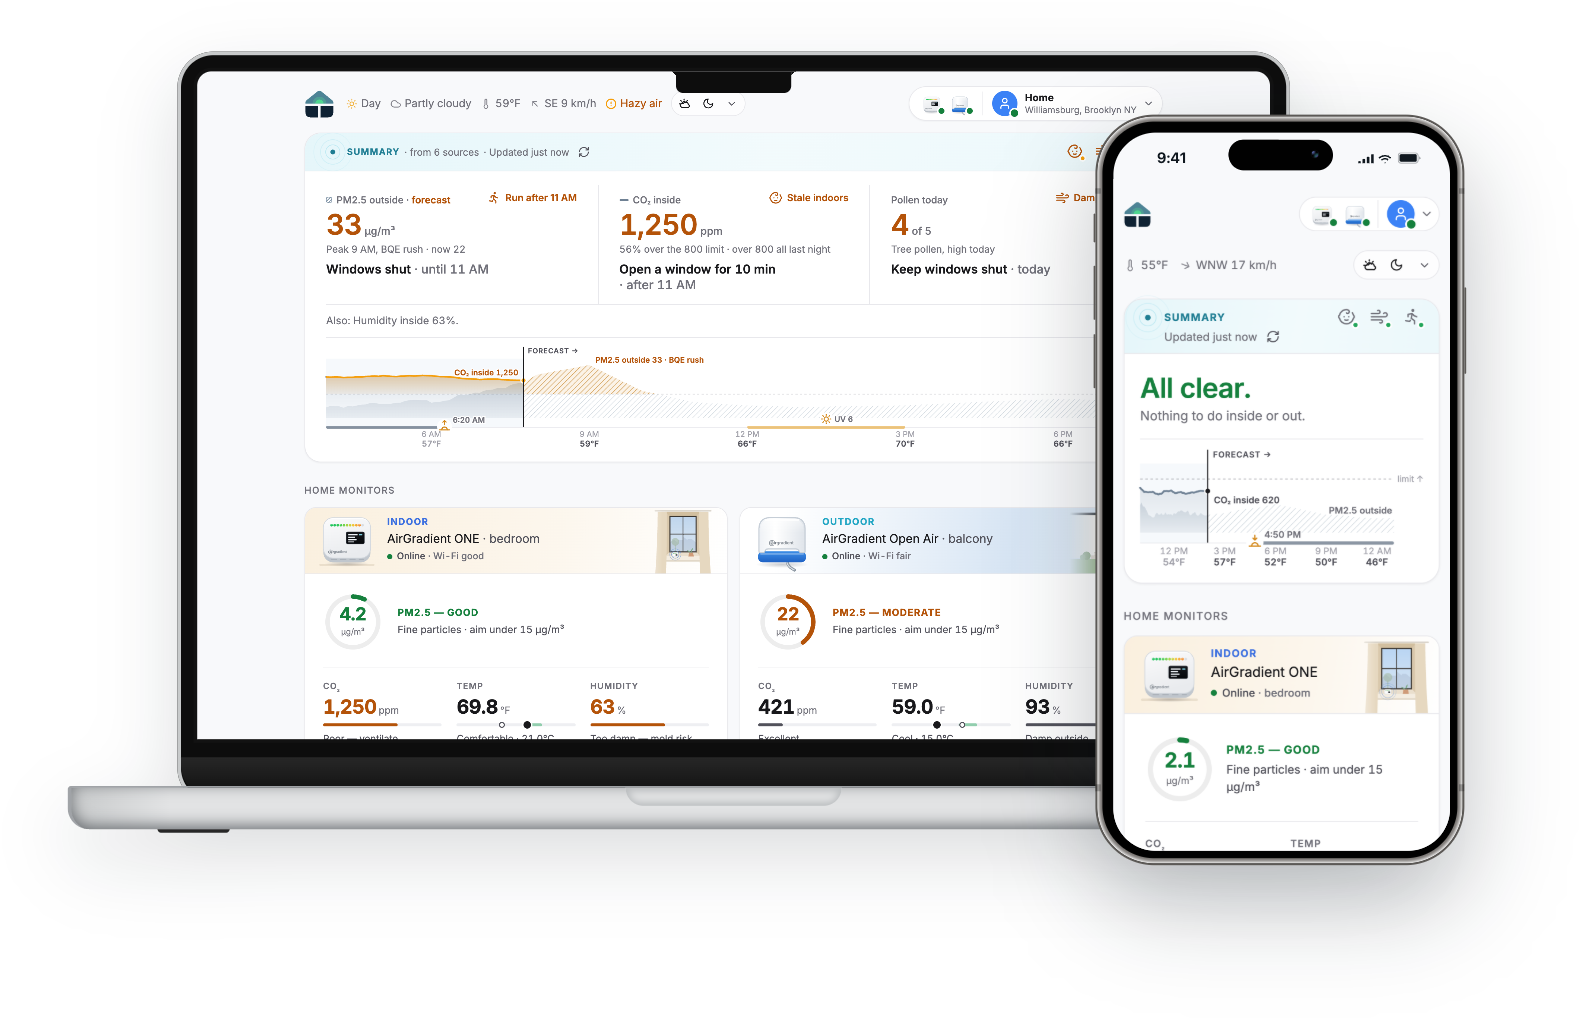
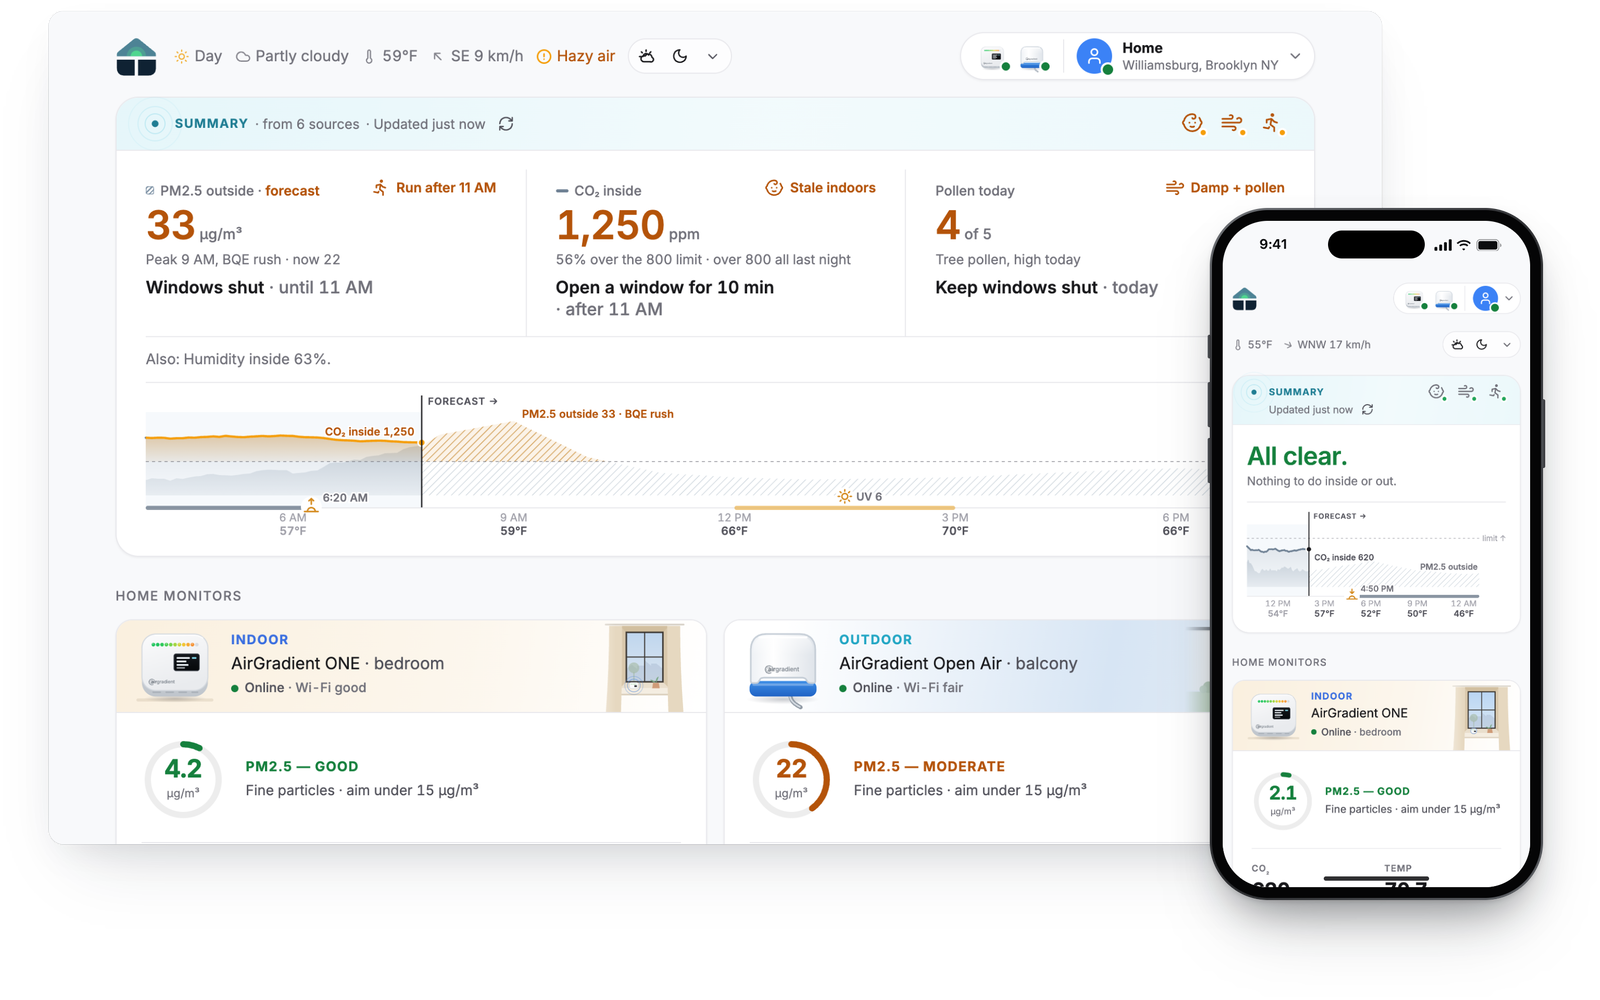
New hero: the page in a rounded panel with the phone, no laptop

Changed region(s): [[0.031, 0.031, 0.9918, 0.93], [0.4649, 0.403, 0.5889, 0.434], [0.217, 0.589, 0.3099, 0.62]]

diff --git a/scripts/hero.html b/scripts/hero.html
@@ -1,71 +1,107 @@
 <!doctype html>
-<!-- The README's hero image: a MacBook Pro with the desktop's first screen (Morning rush), an iPhone 14 Pro in front with the phone's (All clear).
-     scripts/screenshot.sh opens it with ?theme=light|dark&desk=<png>&phone=<png>&bg=<hex> and shoots it on a transparent background.
-     Device frames: Devices.css (MIT, github.com/picturepan2/devices.css), vendored in scripts/vendor. -->
+<!-- The README's hero image: the desktop page's first screen (Morning rush) in a rounded panel with a soft shadow, no window
+     chrome, and a current iPhone over its lower right corner with the phone's first screen (All clear).
+     scripts/screenshot.sh opens it with ?theme=light|dark&desk=<png>&phone=<png>&bg=<hex>[&look=cropped] and shoots it on a
+     transparent background. look=cropped: lighter shadows, for the hero on a white background, cropped tight. Standalone: nothing fetched beyond the two captures. -->
 <html lang="en">
 <head>
 <meta charset="utf-8">
 <title>Hero</title>
-<link rel="stylesheet" href="vendor/devices.min.css">
 <style>
   html, body { margin: 0; background: transparent; }
-  :root { --ink: #10181f; }
-  :root.dark { --ink: #f2f5f8; }
-  /* 72 px of room on every side, more than any shadow reaches, so every shadow fades to nothing inside the stage;
-     screenshot.sh then trims to the last non-transparent pixel */
-  .stage { position: relative; width: 920px; height: 640px; }
-  /* the laptop behind, at its native Devices.css size (screen 600 × 375, the desktop's 16:10) */
-  .laptop { position: absolute; left: 72px; top: 72px; filter: drop-shadow(0 16px 20px rgba(10, 20, 30, .14)); }
-  .laptop .device-screen { object-position: top left; }
-  /* the phone in front, over the laptop's lower right, at the same zoom as the laptop's screen
-     (390 px of page in 187 px, 1440 in 600): the wrapper places it, zoom sizes it and keeps it sharp */
-  .phone-at { position: absolute; z-index: 2; left: 643px; top: 107px; width: 205.44px; height: 416.64px; filter: drop-shadow(0 22px 26px rgba(10, 20, 30, .26)); }
-  .phone { zoom: .48; }
-  .phone .device-screen { overflow: hidden; background: var(--bg, #f4f6f8); }
-  .phone .device-screen img { width: 390px; height: auto; display: block; }
-  /* iOS status bar, so the page starts below the Dynamic Island as it does on a real phone */
-  .status { height: 54px; display: flex !important; align-items: center; justify-content: space-between; padding: 6px 34px 0 50px;
-    font: 600 17px/1 -apple-system, "SF Pro Text", system-ui, sans-serif; color: var(--ink); letter-spacing: -.01em; }
-  .status .icons { display: flex !important; gap: 6px; align-items: center; }
+  :root {
+    --ink: #0b0c0e;                  /* the phone's status bar and home indicator */
+    --ring: rgba(16, 24, 40, .09);   /* the hairline around the panel */
+    --sh1: rgba(16, 24, 40, .10);    /* the panel's close shadow */
+    --sh2: rgba(16, 24, 40, .16);    /* the panel's far shadow */
+    --ph0: rgba(0, 0, 0, .10);       /* the phone's contact shadow, close and far */
+    --ph1: rgba(10, 14, 20, .30);
+    --ph2: rgba(10, 14, 20, .30);
+  }
+  :root.dark {
+    --ink: #f5f6f8;
+    --ring: rgba(255, 255, 255, .11);
+    --sh1: rgba(0, 0, 0, .30);
+    --sh2: rgba(0, 0, 0, .40);
+    --ph0: rgba(0, 0, 0, .30);
+    --ph1: rgba(0, 0, 0, .50);
+    --ph2: rgba(0, 0, 0, .50);
+  }
+  /* the cropped hero sits on white with about 30 px below it: shadows half as dark and short enough to fade out inside that */
+  :root.cropped .win { box-shadow: 0 0 0 1px var(--ring), 0 6px 16px -6px rgba(16, 24, 40, .05), 0 14px 24px -10px rgba(16, 24, 40, .07); }
+  :root.cropped .phone { box-shadow: 0 1px 3px rgba(0, 0, 0, .06), 0 8px 16px -4px rgba(10, 14, 20, .14), 0 16px 24px -10px rgba(10, 14, 20, .10); }
+  .stage { position: relative; }
+  /* the panel: the page's own first screen, rounded, with 100 px of room on the top and left (more than its shadow reaches) */
+  .win { position: absolute; left: 100px; top: 100px; width: 1240px; border-radius: 14px; overflow: hidden;
+    box-shadow: 0 0 0 1px var(--ring), 0 14px 32px -12px var(--sh1), 0 36px 64px -28px var(--sh2); }
+  .win img { display: block; width: 100%; height: auto; }
+
+  /* the phone: an iPhone 15 Pro-class body, the page at 0.7277 of its 393 × 852 pt screen (286 × 620) */
+  .phone { position: absolute; width: 310px; height: 644px; border-radius: 54px; padding: 2px; box-sizing: border-box;
+    background: linear-gradient(150deg, #74777c 0%, #2b2c2f 22%, #3d3f43 50%, #26272a 78%, #5d6065 100%);   /* the titanium edge */
+    box-shadow: 0 2px 4px var(--ph0), 0 20px 36px -12px var(--ph1), 0 40px 64px -28px var(--ph2); }
+  .bezel { width: 100%; height: 100%; border-radius: 52px; background: #050506; padding: 10px; box-sizing: border-box; }
+  .screen { position: relative; width: 286px; height: 620px; border-radius: 42px; overflow: hidden; background: var(--bg, #f8f9fb); }
+  .screen img { display: block; width: 286px; height: auto; }
+  .island { position: absolute; left: 50%; top: 9px; transform: translateX(-50%); width: 90px; height: 26px; border-radius: 13px; background: #000; z-index: 2; }
+  .home-ind { position: absolute; left: 50%; bottom: 6px; transform: translateX(-50%); width: 98px; height: 4px; border-radius: 2px; background: var(--ink); opacity: .85; z-index: 2; }
+  /* iOS status bar (59 pt at this scale), so the page starts below the Dynamic Island as it does on a real phone */
+  .status { height: 43px; display: flex; align-items: center; justify-content: space-between; padding: 2px 26px 0 34px; box-sizing: border-box;
+    font: 600 12.5px/1 -apple-system, "SF Pro Text", system-ui, sans-serif; color: var(--ink); letter-spacing: -.01em; }
+  .status .icons { display: flex; gap: 4.5px; align-items: center; }
   .status svg { display: block; fill: currentColor; }
+  /* side buttons: action, volume up and down on the left, power on the right; barely out of the edge */
+  .btn { position: absolute; width: 3px; border-radius: 2px; background: linear-gradient(90deg, #55585d, #2d2e31); }
+  .btn.l { left: -2px; } .btn.r { right: -2px; }
 </style>
 </head>
 <body>
-<div class="stage">
-  <div class="device device-macbook-pro laptop">
-    <div class="device-frame"><img class="device-screen" id="desk" alt=""></div>
-    <div class="device-stripe"></div>
-    <div class="device-header"></div>
-    <div class="device-sensors"></div>
-    <div class="device-btns"></div>
-    <div class="device-power"></div>
+<div class="stage" id="stage">
+  <div class="win" id="win"><img id="desk" alt=""></div>
+  <div class="phone" id="phone-body">
+    <div class="btn l" style="top:118px;height:22px"></div>
+    <div class="btn l" style="top:162px;height:42px"></div>
+    <div class="btn l" style="top:214px;height:42px"></div>
+    <div class="btn r" style="top:178px;height:64px"></div>
+    <div class="bezel"><div class="screen">
+      <div class="island"></div>
+      <div class="status"><span>9:41</span><span class="icons">
+        <svg width="16" height="11" viewBox="0 0 18 12" aria-hidden="true"><rect x="0" y="8" width="3" height="4" rx="1"/><rect x="5" y="5.5" width="3" height="6.5" rx="1"/><rect x="10" y="3" width="3" height="9" rx="1"/><rect x="15" y="0" width="3" height="12" rx="1"/></svg>
+        <svg width="14.5" height="11" viewBox="0 0 16 12" aria-hidden="true"><path d="M8 2.6c2.3 0 4.4.9 6 2.4l1.2-1.2A10.2 10.2 0 0 0 8 .9C5.2.9 2.7 2 .8 3.8L2 5c1.6-1.5 3.7-2.4 6-2.4Zm0 3.5c1.3 0 2.5.5 3.5 1.3l1.2-1.2A6.7 6.7 0 0 0 8 4.4c-1.8 0-3.4.7-4.7 1.8l1.2 1.2c1-.8 2.2-1.3 3.5-1.3Zm0 3.4c-.6 0-1.1.2-1.5.6L8 11.6l1.5-1.5c-.4-.4-.9-.6-1.5-.6Z"/></svg>
+        <svg width="24" height="11.5" viewBox="0 0 27 13" aria-hidden="true"><rect x=".5" y=".5" width="23" height="12" rx="3.5" fill="none" stroke="currentColor" stroke-opacity=".4"/><rect x="2" y="2" width="20" height="9" rx="2"/><path d="M25 4.5v4c.8-.3 1.3-1.1 1.3-2s-.5-1.7-1.3-2Z" fill-opacity=".45"/></svg>
+      </span></div>
+      <img id="phone" alt="">
+      <div class="home-ind"></div>
+    </div></div>
   </div>
-  <div class="phone-at"><div class="device device-iphone-14-pro device-black phone">
-    <div class="device-frame">
-      <div class="device-screen">
-        <div class="status"><span>9:41</span><span class="icons">
-          <svg width="18" height="12" viewBox="0 0 18 12" aria-hidden="true"><rect x="0" y="8" width="3" height="4" rx="1"/><rect x="5" y="5.5" width="3" height="6.5" rx="1"/><rect x="10" y="3" width="3" height="9" rx="1"/><rect x="15" y="0" width="3" height="12" rx="1"/></svg>
-          <svg width="16" height="12" viewBox="0 0 16 12" aria-hidden="true"><path d="M8 2.6c2.3 0 4.4.9 6 2.4l1.2-1.2A10.2 10.2 0 0 0 8 .9C5.2.9 2.7 2 .8 3.8L2 5c1.6-1.5 3.7-2.4 6-2.4Zm0 3.5c1.3 0 2.5.5 3.5 1.3l1.2-1.2A6.7 6.7 0 0 0 8 4.4c-1.8 0-3.4.7-4.7 1.8l1.2 1.2c1-.8 2.2-1.3 3.5-1.3Zm0 3.4c-.6 0-1.1.2-1.5.6L8 11.6l1.5-1.5c-.4-.4-.9-.6-1.5-.6Z"/></svg>
-          <svg width="27" height="13" viewBox="0 0 27 13" aria-hidden="true"><rect x=".5" y=".5" width="23" height="12" rx="3.5" fill="none" stroke="currentColor" stroke-opacity=".4"/><rect x="2" y="2" width="20" height="9" rx="2"/><path d="M25 4.5v4c.8-.3 1.3-1.1 1.3-2s-.5-1.7-1.3-2Z" fill-opacity=".45"/></svg>
-        </span></div>
-        <img id="phone" alt="">
-      </div>
-    </div>
-    <div class="device-stripe"></div>
-    <div class="device-header"></div>
-    <div class="device-sensors"></div>
-    <div class="device-btns"></div>
-    <div class="device-power"></div>
-  </div></div>
 </div>
 <script>
   const q = new URLSearchParams(location.search);
   if (q.get('theme') === 'dark') document.documentElement.classList.add('dark');
+  if (q.get('look') === 'cropped') document.documentElement.classList.add('cropped');
   if (q.get('bg')) document.documentElement.style.setProperty('--bg', q.get('bg'));
-  document.getElementById('desk').src = q.get('desk') || '';
-  document.getElementById('phone').src = q.get('phone') || '';
+  const desk = document.getElementById('desk'), phone = document.getElementById('phone');
+  desk.src = q.get('desk') || ''; phone.src = q.get('phone') || '';
+  const PAST_RIGHT = 150;   // px the phone's right edge sits past the panel's: enough to read as in front, not beside
+  const BELOW = 52;         // px the phone's bottom sits below the panel's, so it overlaps the corner
+  const PAD = 100;          // px of room right of the phone, more than its shadow reaches (the edges must stay transparent)
+  const PAD_BOTTOM = 150;   // px of room below the phone, where its shadow falls furthest
+  // place the phone once the panel's height (the desktop capture's) is known, then size the stage around both
+  let placed = false;
+  function place() {
+    const win = document.getElementById('win'), body = document.getElementById('phone-body');
+    const wr = win.offsetLeft + win.offsetWidth, wb = win.offsetTop + win.offsetHeight;
+    body.style.left = (wr + PAST_RIGHT - body.offsetWidth) + 'px';
+    body.style.top = (wb + BELOW - body.offsetHeight) + 'px';
+    const st = document.getElementById('stage');
+    st.style.width = (wr + PAST_RIGHT + PAD) + 'px';
+    st.style.height = (wb + BELOW + PAD_BOTTOM) + 'px';
+    placed = true;
+  }
+  desk.addEventListener('load', place);
   // scripts/screenshot.mjs waits for this instead of the dashboard's checks
-  window.__shotReady = () => [...document.images].every(i => i.complete && i.naturalWidth > 0) && document.fonts.status === 'loaded';
+  window.__shotReady = () => { if (desk.complete && desk.naturalWidth && !placed) place();
+    return placed && [...document.images].every(i => i.complete && i.naturalWidth > 0) && document.fonts.status === 'loaded'; };
 </script>
 </body>
 </html>

diff --git a/README.md b/README.md
@@ -5,7 +5,7 @@ An app for your AirGradient monitors that tells you what to do about your air: w
 **[Try the demo](https://homeair.app)** · [Installation](#installation) · [Features](#features) · [How it works](#how-it-works)
 
 <p align="center">
-  <img src="docs/hero-light.png" alt="Home Air on a laptop and a phone" width="800">
+  <img src="docs/hero-light.png" alt="Home Air's page next to its phone view" width="800">
 </p>
 
 <sub>Screenshots from the demo, with sample data.</sub>
@@ -99,7 +99,7 @@ The app always uses the corrected value: for your monitors, the `pm02_corrected`
 - Pollen: [Google Pollen API](https://developers.google.com/maps/documentation/pollen) (optional, needs a key).
 - Wildfire smoke: NOAA's [Hazard Mapping System](https://www.ospo.noaa.gov/products/land/hms.html).
 - Map: [MapLibre](https://maplibre.org), with tiles from [OpenFreeMap](https://openfreemap.org) and map data from [OpenStreetMap](https://www.openstreetmap.org/copyright) contributors.
-- Device frames in the screenshot: [Devices.css](https://github.com/picturepan2/devices.css) (MIT, `scripts/vendor/`).
+- Device frame in the link-preview images: [Devices.css](https://github.com/picturepan2/devices.css) (MIT, `scripts/vendor/`).
 
 ## Contributing
 
